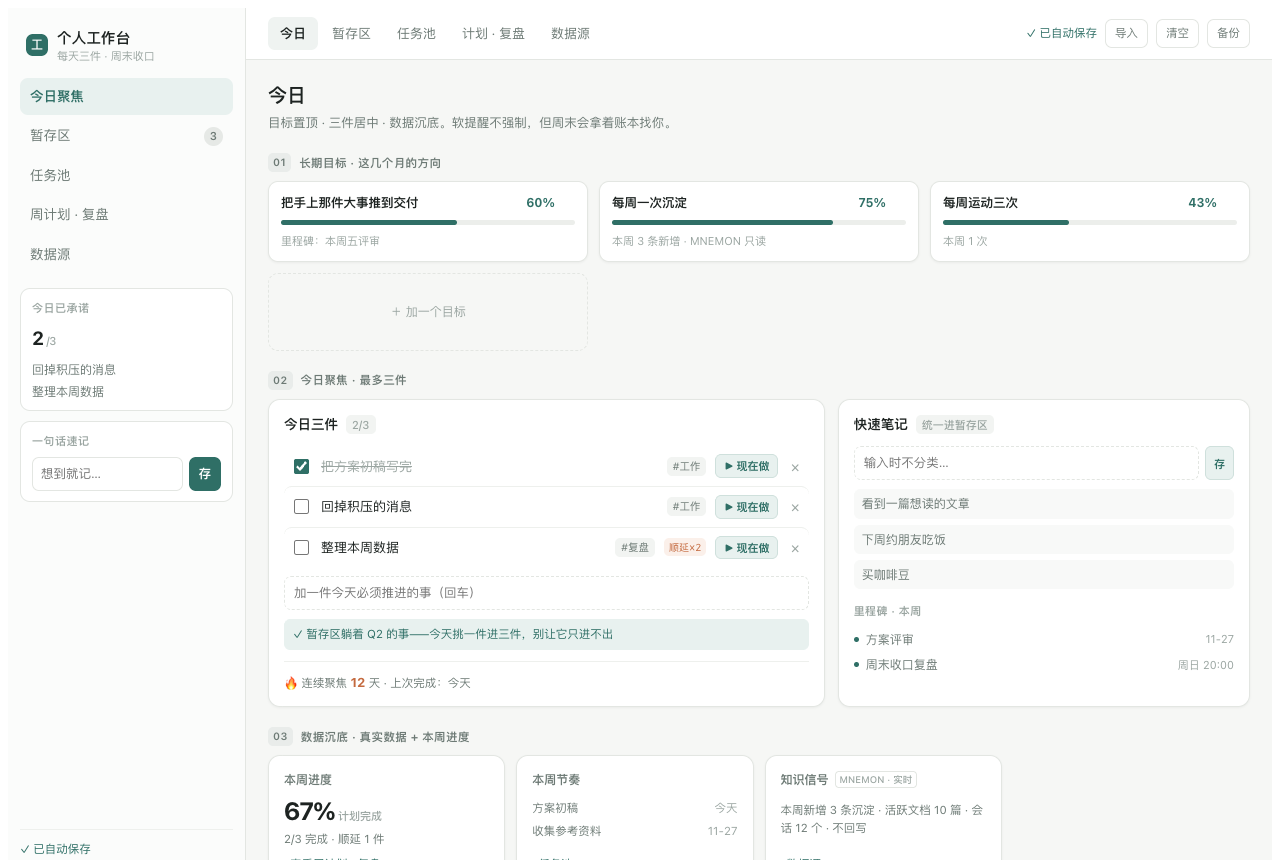
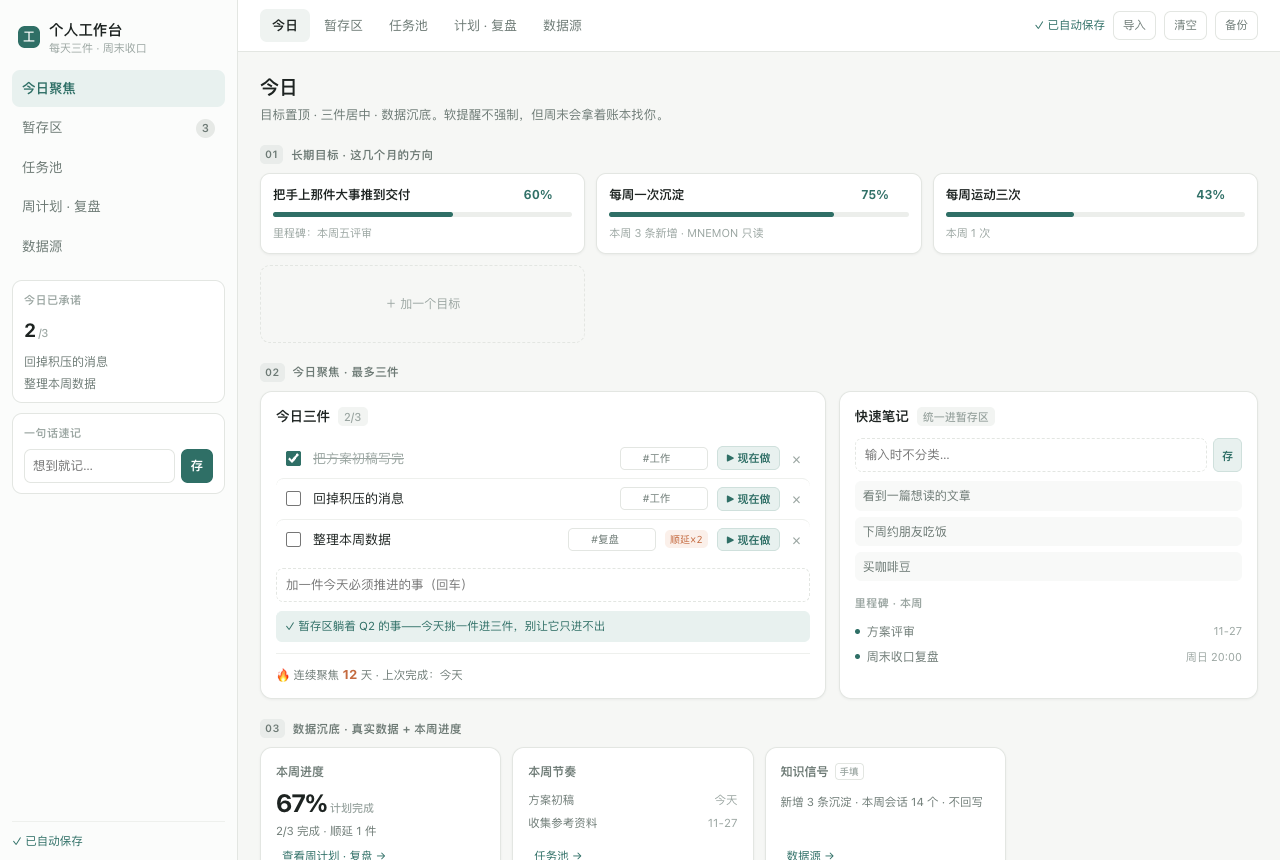
fix: 今日页本周进度也计入计划外完成

diff --git a/client.js b/client.js
@@ -540,7 +540,7 @@ function renderToday() {
   const st = weekStats();
   $("#weekPct").innerHTML = st.planned ? st.pct + "%<small>计划完成</small>" : '—<small>还没计划</small>';
   $("#weekPctNote").textContent = st.planned
-    ? `${st.done}/${st.planned} 完成 · 顺延 ${st.carry} 件`
+    ? `${st.done}/${st.planned} 完成${st.extra ? " · 计划外 " + st.extra + " 件" : ""} · 顺延 ${st.carry} 件`
     : "去「周计划」定三件，这里才有进度";
 
   // 本周节奏：本周有截止日的任务

diff --git a/README.md b/README.md
@@ -19,7 +19,7 @@ DeepSeek Harness 插件。每天只锁三件事，想到的东西先丢暂存区
 1. 打开 DeepSeek Harness，左栏进入 **Plugins**。
 2. 点 **Add plugin**，填入 Release 里的 tarball 地址，例如：
    ```
-   https://github.com/PLAhui/dsh-workbench/releases/download/v1.2.1/plahui-dsh-workbench-1.2.1.tgz
+   https://github.com/PLAhui/dsh-workbench/releases/download/v1.2.2/plahui-dsh-workbench-1.2.2.tgz
    ```
 3. 安装完成后重启 DeepSeek Harness。
 
